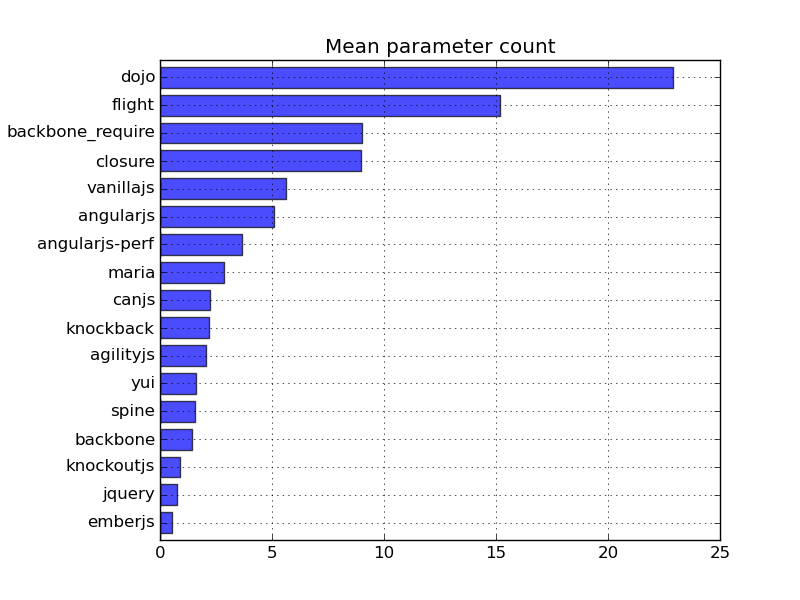
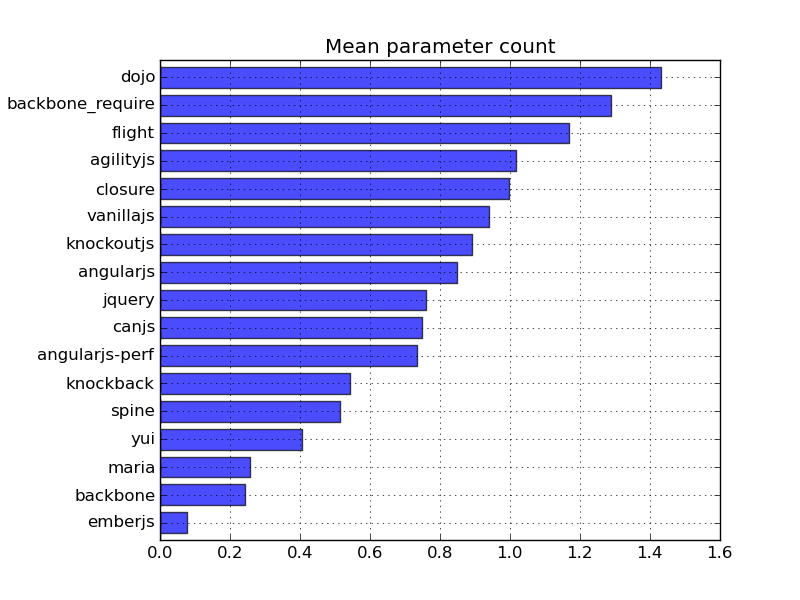
get dict value from path tuple

diff --git a/aggregate.py b/aggregate.py
@@ -1,5 +1,6 @@
 #!/usr/bin/env python
 # -*- coding: utf-8 -*-
+from __future__ import division
 import json
 import os
 
@@ -15,21 +16,25 @@ data_dir = os.path.join(root_dir, 'data')
 reports = glob(data_dir + '/*.json')
 
 metrics = (
-    'Sum Physical SLOC',
+    ('Sum Physical SLOC', ('aggregate', 'complexity', 'sloc', 'logical'),
     'Sum Logical SLOC',
     'Sum files',
     'Sum functions',
-    'Mean Maintainability index',
+    'Mean cyclomatic complexity',
+    'Mean maintainability index',
     'Mean parameter count',
-    #'Mean cyclomatic complexity',
-    #'Mean Halstead difficulty',
-    #'Mean Halstead volume',
-    #'Mean Halstead effort',
+    'Mean Halstead difficulty',
+    'Mean Halstead volume',
+    'Mean Halstead effort',
     #'Mean functions per file',
 )
 
 stats = defaultdict(dict)
 stats.fromkeys(metrics)
+
+
+def val_from_path(path, di):
+    return reduce(lambda d, key: d[key], path, di)
 
 
 for report in reports:
@@ -40,20 +45,23 @@ for report in reports:
         for project_file in project_files:
             stats['Sum Logical SLOC'][project] = stats['Sum Logical SLOC'].get(project, 0) + project_file['aggregate']['complexity']['sloc']['logical']
             stats['Sum Physical SLOC'][project] = stats['Sum Physical SLOC'].get(project, 0) + project_file['aggregate']['complexity']['sloc']['physical']
-            stats['Mean Maintainability index'][project] = stats['Mean Maintainability index'].get(project, 0) + project_file['maintainability']
-            stats['Mean parameter count'][project] = stats['Mean parameter count'].get(project, 0) + project_file['params']
             stats['Sum functions'][project] = stats['Sum functions'].get(project, 0) + len(project_file['functions'])
+            stats['Mean maintainability index'][project] = stats['Mean maintainability index'].get(project, 0) + project_file['maintainability']
+            stats['Mean cyclomatic complexity'][project] = stats['Mean cyclomatic complexity'].get(project, 0) + project_file['aggregate']['complexity']['cyclomatic']
+            stats['Mean Halstead difficulty'][project] = stats['Mean Halstead difficulty'].get(project, 0) + project_file['aggregate']['complexity']['halstead']['difficulty']
+            stats['Mean Halstead volume'][project] = stats['Mean Halstead volume'].get(project, 0) + project_file['aggregate']['complexity']['halstead']['volume']
+            stats['Mean Halstead effort'][project] = stats['Mean Halstead effort'].get(project, 0) + project_file['aggregate']['complexity']['halstead']['effort']
+            stats['Mean parameter count'][project] = stats['Mean parameter count'].get(project, 0) + project_file['params']
 
 
-#print [(k, v) for k, v in sorted(stats['Sum files'].items(), key=lambda x: x[1], reverse=True)]
+file_counts = list(stats['Sum files'].values())
+func_counts = list(stats['Sum functions'].values())
 for metric in stats:
     values = list(stats[metric].values())
-    if metric in ['Mean Maintainability index', 'Mean parameter count']:
-        try:
-            counts = list(stats['Sum files'].values())
-        except:
-            continue
-        values = [v / counts[i] for i, v in enumerate(values)]
+    if metric in ['Mean maintainability index', 'Mean parameter count']:
+        values = [v / file_counts[i] for i, v in enumerate(values)]
+    elif metric in ['Mean cyclomatic complexity', 'Mean Halstead difficulty', 'Mean Halstead volume', 'Mean Halstead effort']:
+        values = [v / func_counts[i] for i, v in enumerate(values)]
     stats[metric] = pd.Series(values, index=list(stats[metric].keys()))
 
 df = pd.DataFrame(stats)
